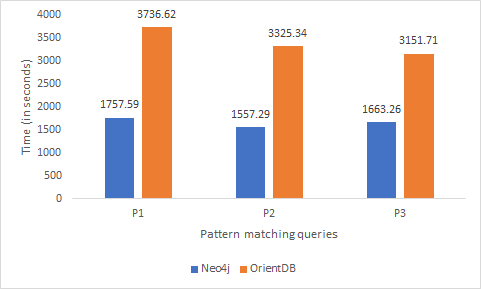
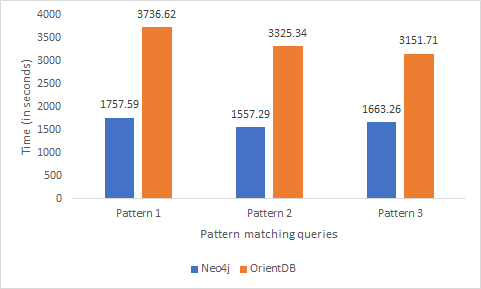
minor corrections and tables additions for per thread execution time

Changed region(s): [[0.499, 0.7163, 0.6237, 0.7785], [0.7796, 0.7163, 0.9044, 0.7474], [0.2183, 0.7163, 0.343, 0.7474]]

diff --git a/results.tex b/results.tex
@@ -7,13 +7,191 @@ In this section, we present results of the performance for pattern matching of t
 
 The machine we used for our experiment was large memory machine (256 GB): 2 socket Intel(R) Xeon(R) CPU E5-2650 @ 2.00GHz processors (32 cores). This machine was large enough to load IMDB graph ~\cite{IMDb96:online} in the memory.
 
+
 \subsection{Results}
 \label{result}
 We obtained the results by running one pattern matching query on one database at a time to make sure that the query performance is not impacted due to other queries on the databases.
+e 
+We started with pattern matching query Pattern 1 on the Neo4j database and to our surprise, it took around 9 hours for the query to terminate. Hence, we tried to optimize the query by running the query in the multiple threads at a time. As there were 32 cores on the machine and total of around 3.6 million person vertices (actors, actresses, and directors) to run the pattern matching query. Hence, we first use 20 threads for first 2 million and then 16 threads for remaining using pool of threads. With each thread processing 100,000 vertices, total time for Pattern 1 reduced to around 30 minutes for Neo4j. We did the same optimization for two other queries and for both graph databases.
+The time taken by each thread to process for Neo4j and OrientDB is shown in the Tables~\ref{table:neo4j} and ~\ref{table:orient} respectively.
 
-We started with pattern matching query P1 on the Neo4j database and to our surprise, it took around 9 hours for the query to terminate. Hence, we tried to optimize the query by running the query in the multiple threads at a time. As there were 32 cores on the machine and total of around 3.6 million person vertices (actors, actresses, and directors) to run the pattern matching query. Hence, we first use 20 threads for first 2 million and then 17 threads for remining using pool of threads. With each thread processing 100,000 vertices, total time for P1 reduced to around 30 minutes for Neo4j. We did the same optimization for two other queries and for both graph databases.
+\begin{table}[h!]
+\resizebox{0.8\textwidth}{!}{%
+%\captionof{table}{Neo4j:per thread execution time}
+\begin{minipage}[b]{80mm}
+\centering
+\begin{tabular}{|c|c|c|c|}
+\hline
+& Pattern 1 & Pattern 2 & Pattern 3 \\ 
+\hline
+Thread	0	&  977.89	&	836.84 &	925.05   \\ 
+ \hline 
+Thread	1	&  969.99	&	846.65 &	919.52   \\ 
+ \hline 
+Thread	2	&  909.21	&	853.76 &	914.13   \\ 
+ \hline 
+Thread	3	&  997.76	&	856.53 &	906.03   \\ 
+ \hline 
+Thread	4	&  988.03	&	853.99 &	914.15   \\ 
+ \hline 
+Thread	5	&  961.67	&	840.02 &	916.63   \\ 
+ \hline 
+Thread	6	&  989.58	&	867.04 &	924.72   \\ 
+ \hline 
+Thread	7	&  945.33	&	856.65 &	920.63   \\ 
+ \hline 
+Thread	8	&  989.86	&	871.52 &	923.34   \\ 
+ \hline 
+Thread	9	&  980.54	&	864.57 &	915.12   \\ 
+ \hline 
+Thread	10	&  987.06	&	864.91 &	926.87   \\ 
+ \hline 
+Thread	11	&  989.20	&	853.66 &	918.73   \\ 
+ \hline 
+Thread	12	&  986.01	&	858.76 &	919.60   \\ 
+ \hline 
+Thread	13	&  986.55	&	858.80 &	922.03   \\ 
+ \hline 
+Thread	14	&  983.65	&	855.88 &	921.39   \\ 
+ \hline 
+Thread	15	&  988.05	&	859.70 &	923.25   \\ 
+ \hline 
+Thread	16	&  979.21	&	855.41 &	922.93   \\ 
+ \hline 
+Thread	17	&  979.74	&	858.52 &	922.98   \\ 
+ \hline 
+Thread	18	&  983.90	&	853.14 &	920.50   \\ 
+ \hline 
+Thread	19	&  980.60	&	857.86 &	918.19   \\ 
+ \hline 
+Thread	20	&  758.00	&	698.05 &	736.53   \\ 
+ \hline 
+Thread	21	&  745.77	&	705.25 &	739.87   \\ 
+ \hline 
+Thread	22	&  742.99	&	704.31 &	736.87   \\ 
+ \hline 
+Thread	23	&  746.04	&	684.15 &	746.56   \\ 
+ \hline 
+Thread	24	&  776.15	&	684.06 &	736.88   \\ 
+ \hline 
+Thread	25	&  772.49	&	697.14 &	737.96   \\ 
+ \hline 
+Thread	26	&  771.59	&	701.06 &	735.97   \\ 
+ \hline 
+Thread	27	&  773.59	&	683.95 &	741.41   \\ 
+ \hline 
+Thread	28	&  771.33	&	683.18 &	739.43   \\ 
+ \hline 
+Thread	29	&  773.60	&	700.56 &	742.52   \\ 
+ \hline 
+Thread	30	&  771.13	&	690.38 &	742.13   \\ 
+ \hline 
+Thread	31	&  770.64	&	681.84 &	739.73   \\ 
+ \hline 
+Thread	32	&  736.51	&	676.41 &	741.01   \\ 
+ \hline 
+Thread	33	&  677.96	&	668.71 &	733.49   \\ 
+ \hline 
+Thread	34	&  678.34	&	668.84 &	736.02   \\ 
+ \hline 
+Thread	35	&  676.23	&	666.83 &	736.76   \\ 
+ \hline 
+\end{tabular}
+\caption{Neo4j: per thread execution time}
+\label{table:neo4j}
+\end{minipage}
 
-We ran the the pattern matching queries for both databases and the results are show in the figure ~\ref{fig:comparsion}
+\quad
+\begin{minipage}[b]{80mm}
+\centering
+\begin{tabular}{|c|c|c|c|}
+\hline
+& Pattern 1 & Pattern 2 & Pattern 3 \\ 
+\hline
+Thread	0	&  2431.68  &	2225.29   & 	2015.88  \\ 
+ \hline 
+Thread	1	&  2391.48  &	2102.63   & 	2017.00  \\ 
+ \hline 
+Thread	2	&  2301.36  &	2127.60   & 	2012.43  \\ 
+ \hline 
+Thread	3	&  2379.92  &	2156.31   & 	2068.56  \\ 
+ \hline 
+Thread	4	&  2278.00  &	2129.00   & 	2013.33  \\ 
+ \hline 
+Thread	5	&  2288.26  &	2129.44   & 	2010.54  \\ 
+ \hline 
+Thread	6	&  2329.51  &	2147.03   & 	2078.90  \\ 
+ \hline 
+Thread	7	&  2292.64  &	2076.83   & 	2005.99  \\ 
+ \hline 
+Thread	8	&  2300.49  &	2143.34   & 	2053.73  \\ 
+ \hline 
+Thread	9	&  2310.48  &	2115.65   & 	2085.95  \\ 
+ \hline 
+Thread	10	&  2282.12  &	2237.32   & 	2016.41  \\ 
+ \hline 
+Thread	11	&  2280.59  &	2139.30   & 	2022.68  \\ 
+ \hline 
+Thread	12	&  2304.19  &	2222.45   & 	2021.72  \\ 
+ \hline 
+Thread	13	&  2299.62  &	2129.33   & 	2011.10  \\ 
+ \hline 
+Thread	14	&  2309.20  &	2098.21   & 	2053.04  \\ 
+ \hline 
+Thread	15	&  2310.07  &	2136.47   & 	1996.36  \\ 
+ \hline 
+Thread	16	&  2367.08  &	2144.35   & 	2021.97  \\ 
+ \hline 
+Thread	17	&  2308.65  &	2242.05   & 	2016.55  \\ 
+ \hline 
+Thread	18	&  2377.75  &	2225.02   & 	2031.90  \\ 
+ \hline 
+Thread	19	&  2299.53  &	2091.73   & 	2025.14  \\ 
+ \hline 
+Thread	20	&  1347.48  &	1160.90   & 	1071.00  \\ 
+ \hline 
+Thread	21	&  1343.23  &	1150.95   & 	1054.96  \\ 
+ \hline 
+Thread	22	&  1334.77  &	1157.36   & 	1104.03  \\ 
+ \hline 
+Thread	23	&  1350.81  &	1160.95   & 	1111.09  \\ 
+ \hline 
+Thread	24	&  1349.01  &	1167.03   & 	1104.19  \\ 
+ \hline 
+Thread	25	&  1355.92  &	1171.55   & 	1104.72  \\ 
+ \hline 
+Thread	26	&  1422.85  &	1164.85   & 	1108.75  \\ 
+ \hline 
+Thread	27	&  1349.25  &	1162.60   & 	1124.82  \\ 
+ \hline 
+Thread	28	&  1360.41  &	1184.17   & 	1086.14  \\ 
+ \hline 
+Thread	29	&  1351.56  &	1160.24   & 	1087.87  \\ 
+ \hline 
+Thread	30	&  1415.79  &	1157.77   & 	1106.59  \\ 
+ \hline 
+Thread	31	&  1349.18  &	1161.95   & 	1112.36  \\ 
+ \hline 
+Thread	32	&  1307.40  &	1129.19   & 	1104.93  \\ 
+ \hline 
+Thread	33	&  1148.93  &	1036.64   & 	1066.42  \\ 
+ \hline 
+Thread	34	&  1121.97  &	1023.64   & 	1051.95  \\ 
+ \hline 
+Thread	35	&  1087.44  &	959.72    & 	1059.18  \\ 
+ \hline
+\end{tabular}
+\caption{OrientDB: per thread execution time}
+\label{table:orient}
+\end{minipage}
+}%resizebox
+\label{table:orientdb-per thread}
+\end{table}
+
+
+
+
+We ran the pattern matching queries for both databases and the results are shown in the Figure~\ref{fig:comparsion}.
 
 \begin{figure}[h!]
 	\centering
@@ -25,30 +203,12 @@ We ran the the pattern matching queries for both databases and the results are s
 	\centering
 \end{figure}
 
-We can see from the figure ~\ref{fig:comparsion} that the Neo4j's performance is better than OrientDB by at least 2 times.
+We can see from the Figure~\ref{fig:comparsion} that the Neo4j's performance is better than OrientDB by at least 2 times.
+
+
 
 \section{Conclusions}
-From the experimental results, it is clear that the Neo4j performs better than OrientDB. From our experience, we can say that not all the Gremlin queries are supported in the OrientDB. We also found that there were various versions mismatch issue between the database, Gremlin, and libraries for which we had to do lot of trial and error to make the experiment work.
+From the experimental results, it is clear that the Neo4j performs better than OrientDB. From our experience, we can say that not all the Gremlin queries are supported in the OrientDB. We also found that there were various versions mismatch issues between the database, Gremlin, and dependent libraries for which we had to do lot of trial and error to make the experiment work.
 
 \section{Future Work}
-OrientDB and Neo4j both claim to be a native graph database. OrientDB supports multi-models such as key-value store, a document store, and graph database. as such it's a graph database with nodes as document. Neo4j only allows graph to be stored as property graph. From the results we got, it definitely seems that Neo4j is more optimized when compared to orientDB. Study of optimizations that contributed for Neo4j to perform better will be a future work for this project.   
-
-\begin{comment}
-\begin{table}[h!]
-\resizebox{0.3\textwidth}{!}{%
-\begin{tabular}{ |c|c|c| } 
-\hline
-& Neo4j & OrientDB \\ 
-\hline
-P1 & 1757.59 & 3736.62 \\ 
-\hline
-P2 & 1557.29 & 3325.34 \\ 
-\hline
-P3 & 1663.26 & 3151.71 \\
-\hline
-\end{tabular}
-}%resizebox
-\caption{Pattern matching performance comparison}
-\label{table}
-\end{table}
-\end{comment}
+OrientDB and Neo4j both claim to be a native graph database. OrientDB supports multi-models such as key-value store, a document store, and graph database. as such it's a graph database with nodes as document. Neo4j only allows graph to be stored as property graph. From the results we got, it definitely seems that Neo4j is more optimized when compared to orientDB. Study of optimizations that contributed for Neo4j to perform better will be a future work for this project. 

diff --git a/Intro.tex b/Intro.tex
@@ -4,9 +4,9 @@ Traditional SQL databases with their relational model have several limitations i
 
 A graph is one of the fundamental data abstractions in computer science. As such, there are many applications of graphs. Virtually every graph application has a need to store and query the graph. Recently there has been increased interest in graphs to represent social networks, biological networks, website link structures, and others. Within the field of biology itself, there are many uses for graphs, including metabolic networks, protein-protein interaction networks, chemical structure graphs, gene clusters, and genetic maps. Graphs truly are one of the most useful structures for modelling objects and interactions. Efficiently storing and manipulating graphs have become important as a large number of applications using graphs. Graph databases have risen into popularity to satisfy these requirements.
 
-There are many graph databases that are available commercially and with an open-source licence. Each of them comes with its own characteristics and functionalities. For example, Titan~\cite{jouili2013empirical} and OrientDB~\cite{tesoriero2013getting} were developed to be easily distributed among multiple machines. Others natively provide their own query languages, such as Neo4j~\cite{holzschuher2013performance} with Cypher, or Sones 8 with GraphQL~\cite{vazquez2017improving}. Some databases are also compliant with a standard language, such as AllegroGraph9~\cite{abburu2013format} with SPARQL~\cite{abburu2013format}. In this multitude of solutions, some are characterized by a more generic data structure, like HypergraphDB10 or SonesDB that allow storing hypergraphs. In this report, we analyze emperical performance achieved by two most popular opensource graph databases Neo4j and OrientDB according to ~\cite{dbranking}.
+There are many graph databases that are available commercially and with an open-source licence. Each of them comes with its own characteristics and functionalities. For example, Titan~\cite{jouili2013empirical} and OrientDB~\cite{tesoriero2013getting} were developed to be easily distributed among multiple machines. Others natively provide their own query languages, such as Neo4j~\cite{holzschuher2013performance} with Cypher, or Sones 8 with GraphQL~\cite{vazquez2017improving}. Some databases are also compliant with a standard language, such as AllegroGraph9~\cite{abburu2013format} with SPARQL~\cite{abburu2013format}. In this multitude of solutions, some are characterized by a more generic data structure, like HypergraphDB10 or SonesDB that allow storing hypergraphs. In this report, we analyze performance empirically achieved by two most popular open-source graph databases: Neo4j and OrientDB according to ~\cite{dbranking}.
 
-Later in the report, in section 2, we will describe existing work that compares graph databases. In section 3, we will describe our methodology for evaluvation. In section 4, we will present our results.   
+Later in the report, in section 2, we will describe existing work that compares graph databases. In section 3, we will describe our methodology for evaluation. In section 4, we will present our results.   
 
 
 

diff --git a/related-work.tex b/related-work.tex
@@ -3,7 +3,7 @@
 
 Jouili and Vansteenberghe ~\cite{jouili2013empirical} compared four major graph databases: Neo4j, OrientDB, Titan, and DEX, based on their runtime of shortest path, breadth first search and other read and write workloads such as reading and updating vertices. They found that Neo4j outperforms all other databases in case of traversal workload, all four DBs perform similar in case of read only workload and DEX performs better for read-write workloads.
 
-Vicknair et al.~\cite{vicknair2010comparison} compared relational database(MySql) with a graph database (Neo4j) for traversal queries and read queries and found that Neo4j has much better execution time in all the traversal queries and most of the read queries. They also compated those databases on the basis of the subjective measures such as maturity and level of support, ease of programming, flexibility, and security.
+Vicknair et al.~\cite{vicknair2010comparison} compared relational database(MySql) with a graph database (Neo4j) for traversal queries and read queries and found that Neo4j has much better execution time in all the traversal queries and most of the read queries. They also compared those databases on the basis of the subjective measures such as maturity and level of support, ease of programming, flexibility, and security.
 
 Holzschuher and Peinl ~\cite{holzschuher2013performance} made comparison of graph query languages such as, Cypher, Gremlin, and Native Access in Neo4j.  
 McColl et al.~\cite{mccoll2014performance} performed qualitative and performance comparison study on 12 open source graph databases including Neo4j and OrientDB. For the performance comparison, they ran four graph algorithms: Single Source Shortest Path (SSSP), Connected Components, PageRank (PR), and Update on graphs of different sizes i.e. tiny, small, medium, and large. Their results show that Neo4j out-performs Orient DB in case of SSSP and Connected Components, whereas Orient DB is better at running PageRank and update algorithms on the graph of small size.
